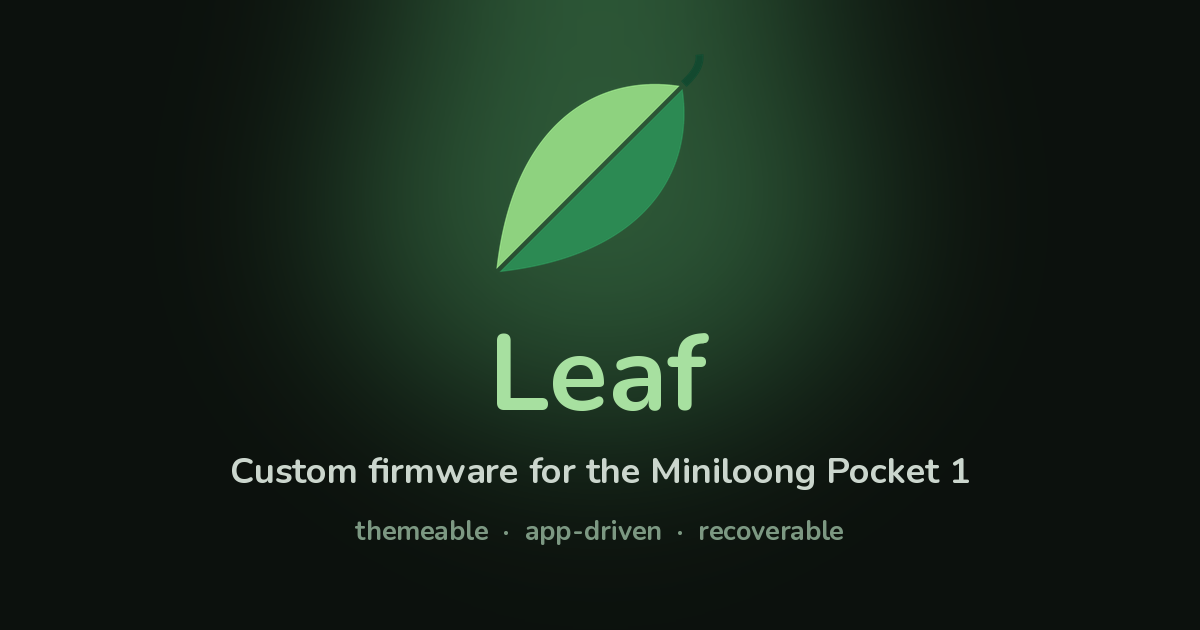
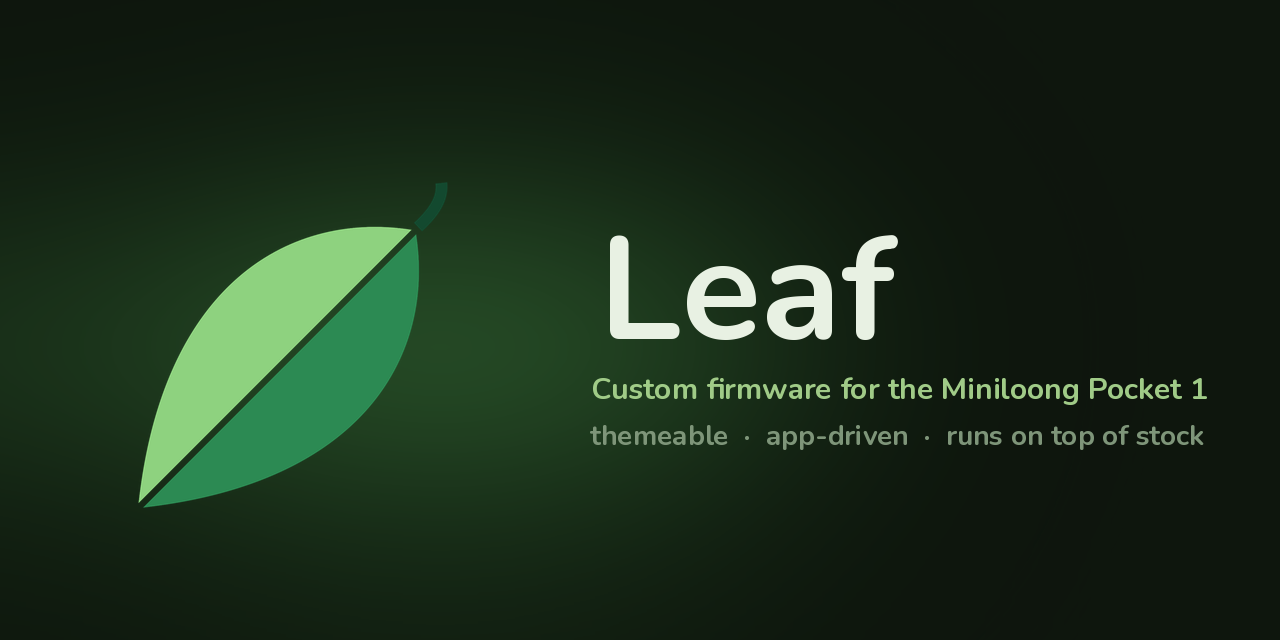
og: horizontal social card shared with the Leaf README
Rewrite make-og.py to produce the 1280x640 horizontal layout (leaf left,
wordmark + two-line tagline right), lowercase 'themeable', and emit both
public/og.png and ../Leaf/.github/social-preview.png from one run. Update
og:image width/height meta to 1280x640.

diff --git a/scripts/make-og.py b/scripts/make-og.py
@@ -1,9 +1,11 @@
 #!/usr/bin/env python3
-"""Build the Open Graph social card (public/og.png, 1200x630) for link previews.
+"""Build the Leaf social card (1280x640) for link previews and the repo READMEs.
 
-On-brand with the landing hero: dark green-black field, a soft green glow behind
-the leaf mark, the Leaf wordmark, and a one-line tagline. Run from the leaf-docs
-root: `python3 scripts/make-og.py`.
+Horizontal layout, on-brand with the landing hero: dark green-black field, a soft
+green glow behind the leaf mark, the leaf on the left, then the Leaf wordmark and a
+two-line tagline on the right. One image is shared by both the docs Open Graph card
+(leaf-docs/public/og.png) and the Leaf repo's README banner
+(Leaf/.github/social-preview.png). Run from the leaf-docs root: `python3 scripts/make-og.py`.
 """
 import os
 from PIL import Image, ImageDraw, ImageFont, ImageFilter
@@ -11,44 +13,63 @@ from PIL import Image, ImageDraw, ImageFont, ImageFilter
 ROOT = os.path.dirname(os.path.dirname(os.path.abspath(__file__)))
 LEAF = os.path.join(ROOT, "src/assets/leaf.png")
 FONT = os.path.join(ROOT, "../Catastrophe/res/fonts/Nunito/Nunito-Bold.ttf")
-OUT = os.path.join(ROOT, "public/og.png")
+OUTPUTS = [
+    os.path.join(ROOT, "public/og.png"),
+    os.path.join(ROOT, "../Leaf/.github/social-preview.png"),
+]
 
-W, H = 1200, 630
-BG = (12, 17, 13)
-GREEN = (167, 224, 160)      # soft-green wordmark
-TAG = (203, 214, 205)        # light tagline
-PILL = (124, 152, 130)       # dim sub-line
+W, H = 1280, 640
+BG    = (14, 22, 13)
+TITLE = (232, 241, 227)   # off-white wordmark
+GREEN = (160, 203, 135)   # subtitle
+GRAY  = (126, 149, 121)   # tagline
 
 base = Image.new("RGB", (W, H), BG)
 
-# Soft green glow behind the mark.
+# Soft green glow behind the leaf: a wide, flat blob in the gap between the leaf
+# and the text, fading to near-black at the corners and the right edge.
 glow = Image.new("RGBA", (W, H), (0, 0, 0, 0))
 gd = ImageDraw.Draw(glow)
-cx, cy = W // 2, 215
-gd.ellipse([cx - 340, cy - 280, cx + 340, cy + 280], fill=(86, 176, 108, 115))
-glow = glow.filter(ImageFilter.GaussianBlur(120))
+gcx, gcy, ghw, ghh = 440, 345, 500, 180
+gd.ellipse([gcx - ghw, gcy - ghh, gcx + ghw, gcy + ghh], fill=(84, 176, 86, 200))
+glow = glow.filter(ImageFilter.GaussianBlur(170))
 base = Image.alpha_composite(base.convert("RGBA"), glow).convert("RGB")
 
-# Leaf mark.
+# Leaf mark: crop to its visible content, scale so the content is 326px, center left.
 mark = Image.open(LEAF).convert("RGBA")
-sz = 230
-mark = mark.resize((sz, sz), Image.LANCZOS)
-base.paste(mark, ((W - sz) // 2, 48), mark)
+mark = mark.crop(mark.getbbox())
+scale = 326 / max(mark.size)
+mark = mark.resize((round(mark.size[0] * scale), round(mark.size[1] * scale)), Image.LANCZOS)
+base.paste(mark, (293 - mark.size[0] // 2, 345 - mark.size[1] // 2), mark)
 
 draw = ImageDraw.Draw(base)
-title_font = ImageFont.truetype(FONT, 108)
-tag_font = ImageFont.truetype(FONT, 36)
-pill_font = ImageFont.truetype(FONT, 27)
 
 
-def centered(text, font, y, fill):
-    box = draw.textbbox((0, 0), text, font=font)
-    draw.text(((W - (box[2] - box[0])) // 2 - box[0], y), text, font=font, fill=fill)
+def fit_width(text, target_w, lo=10, hi=240):
+    """Largest Nunito-Bold size whose rendered width fits target_w (keeps the
+    three lines at their original widths regardless of exact glyph metrics)."""
+    while lo < hi:
+        mid = (lo + hi + 1) // 2
+        b = draw.textbbox((0, 0), text, font=ImageFont.truetype(FONT, mid))
+        lo, hi = (mid, hi) if (b[2] - b[0]) <= target_w else (lo, mid - 1)
+    return ImageFont.truetype(FONT, lo)
 
 
-centered("Leaf", title_font, 300, GREEN)
-centered("Custom firmware for the Miniloong Pocket 1", tag_font, 446, TAG)
-centered("themeable  ·  app-driven  ·  recoverable", pill_font, 512, PILL)
+def draw_inktop(text, font, left, inktop, fill):
+    """Draw so the ink's top-left lands at (left, inktop), ignoring font padding."""
+    b = draw.textbbox((0, 0), text, font=font)
+    draw.text((left - b[0], inktop - b[1]), text, font=font, fill=fill)
 
-base.save(OUT, "PNG")
-print("wrote", OUT, base.size)
+
+title_txt = "Leaf"
+sub_txt   = "Custom firmware for the Miniloong Pocket 1"
+tag_txt   = "themeable  ·  app-driven  ·  runs on top of stock"
+
+draw_inktop(title_txt, fit_width(title_txt, 301), 599, 234, TITLE)
+draw_inktop(sub_txt,   fit_width(sub_txt,   627), 591, 377, GREEN)
+draw_inktop(tag_txt,   fit_width(tag_txt,   632), 590, 424, GRAY)
+
+for out in OUTPUTS:
+    os.makedirs(os.path.dirname(out), exist_ok=True)
+    base.save(out, "PNG")
+    print("wrote", out, base.size)
